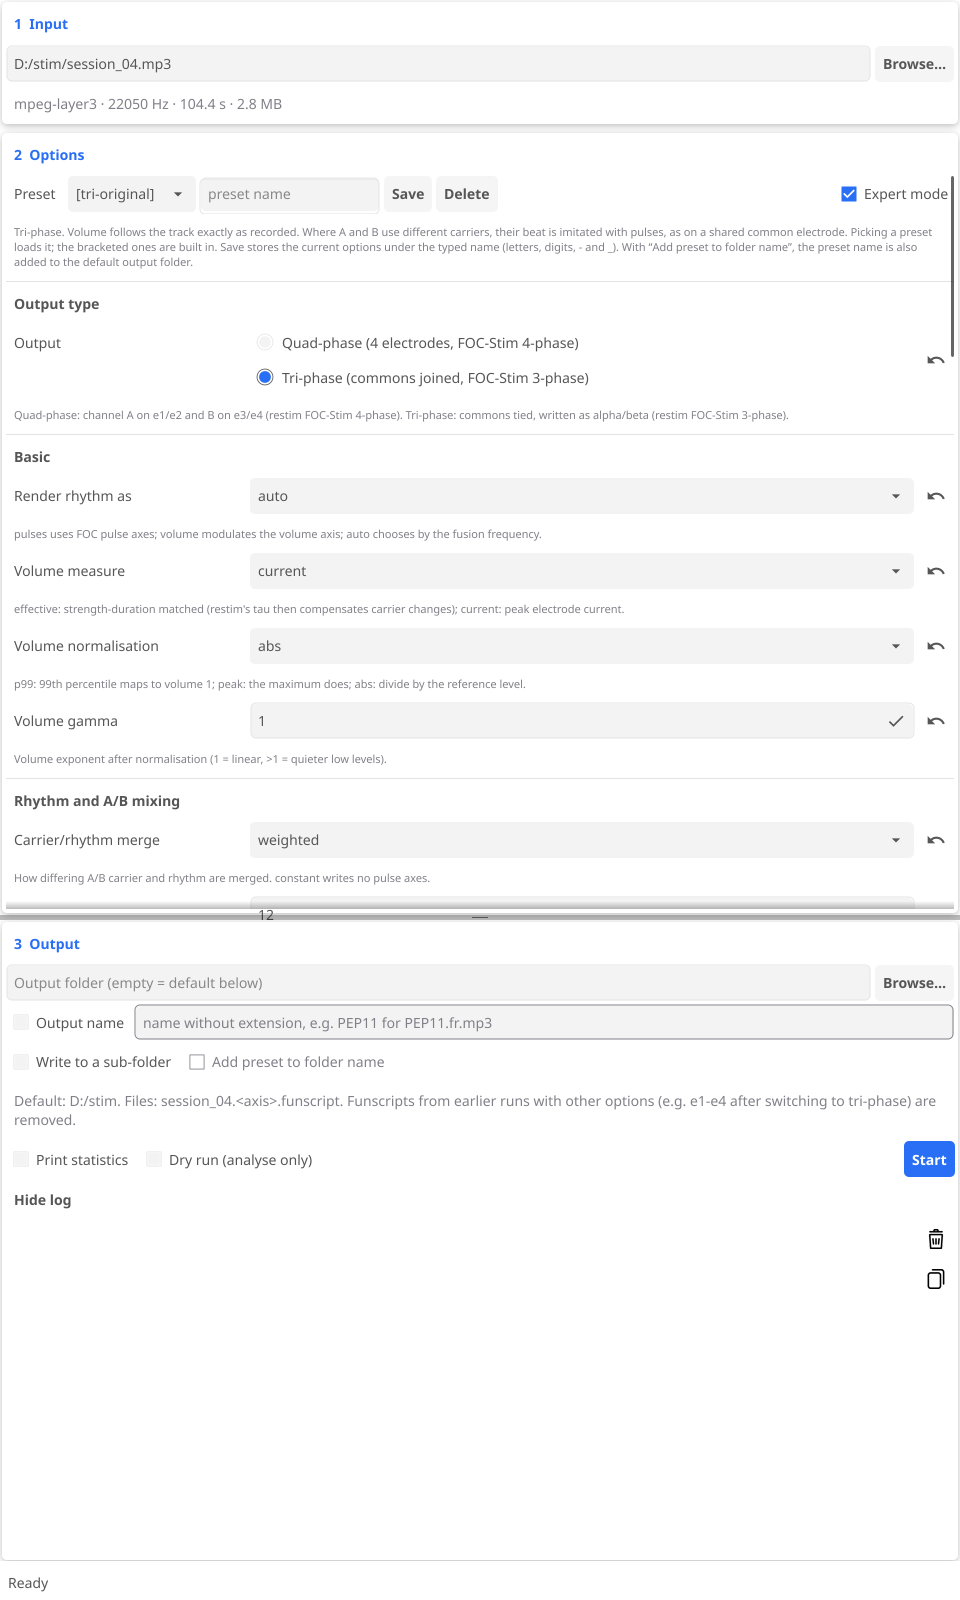
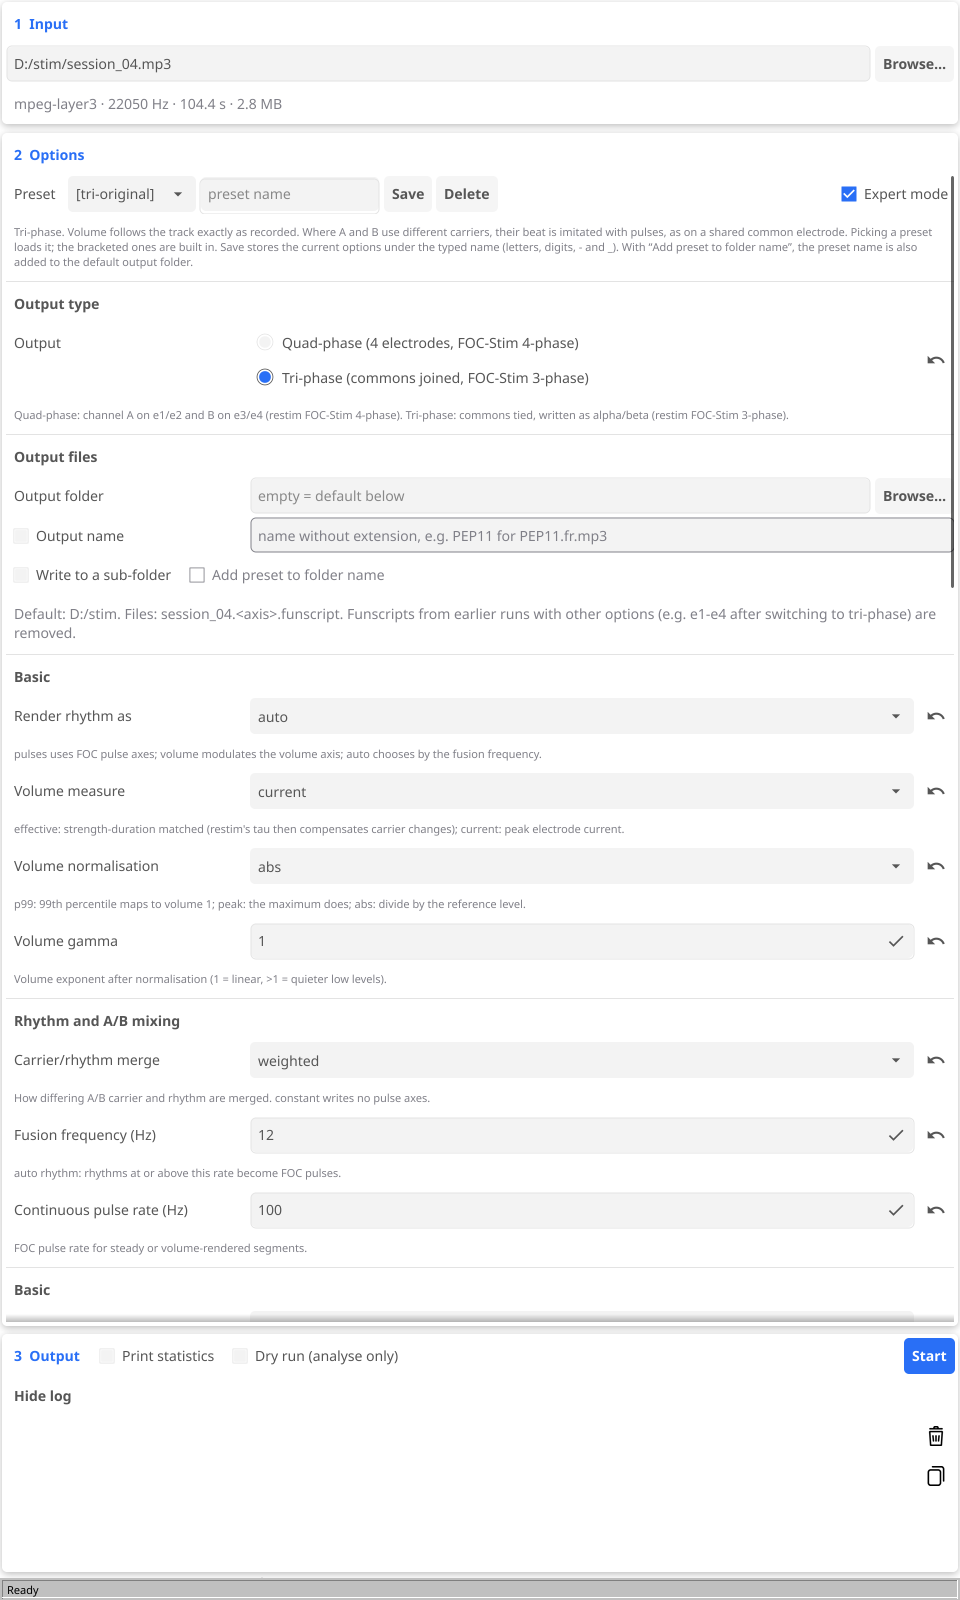
feat(gui): fixed input/output sections, output files in the options
Input stays on top and the output section (stats, dry run, Start and the
collapsible log) at the bottom, growing with the log; the options fill
the middle. The output folder and name settings move into the options
as an "Output files" block after "Output type". The status bar is a
compact Windows 98-style strip with a sunken, ellipsized field, so it no
longer overlaps the log.

diff --git a/internal/gui/layout.go b/internal/gui/layout.go
@@ -2,10 +2,12 @@ package gui
 
 import (
 	"fmt"
+	"image/color"
 	"slices"
 	"strconv"
 
 	"fyne.io/fyne/v2"
+	"fyne.io/fyne/v2/canvas"
 	"fyne.io/fyne/v2/container"
 	"fyne.io/fyne/v2/layout"
 	"fyne.io/fyne/v2/theme"
@@ -113,29 +115,126 @@ func (u *ui) entry(v *value[string], placeholder string) *widget.Entry {
 
 func (u *ui) build() fyne.CanvasObject {
 	u.refreshers = nil
-	u.optScroll, u.split = nil, nil
+	u.optScroll = nil
 	var root fyne.CanvasObject
 	if u.about {
 		root = container.NewPadded(u.aboutPage())
 	} else {
-		// options and output share the space; the divider is draggable
-		split := container.NewVSplit(u.optionsSection(), container.NewVScroll(u.outputSection()))
-		split.Offset = u.splitOffset
-		u.split = split
-		root = container.NewBorder(u.inputSection(), u.statusBar(), nil, nil, split)
+		// input and output keep their size (output grows with the log);
+		// the options fill the rest
+		root = container.NewBorder(u.inputSection(), container.NewVBox(u.outputSection(), u.statusBar()), nil, nil, u.optionsSection())
 	}
 	u.relayout()
 	return root
 }
 
-// statusBar is the bottom line of the window.
+// statusBar is the bottom line of the window, drawn like a classic
+// Windows status bar: a grey strip holding a sunken field. Long messages
+// are cut with an ellipsis.
 func (u *ui) statusBar() fyne.CanvasObject {
-	return u.dynText(func() string {
-		if s := u.status.Get(); s != "" {
-			return s
+	t := canvas.NewText("", colStatusText)
+	t.TextSize = theme.CaptionTextSize()
+	field := newSunken(t)
+	u.onRefresh(func() {
+		s := u.status.Get()
+		if s == "" {
+			s = "Ready"
 		}
-		return "Ready"
-	}, widget.MediumImportance)
+		if field.full != s {
+			field.full = s
+			field.Refresh()
+		}
+	})
+	return container.NewStack(canvas.NewRectangle(colStatusFace), container.New(statusPad{}, field))
+}
+
+var (
+	colStatusFace   = color.NRGBA{0xc0, 0xc0, 0xc0, 0xff}
+	colStatusShadow = color.NRGBA{0x80, 0x80, 0x80, 0xff}
+	colStatusLight  = color.NRGBA{0xff, 0xff, 0xff, 0xff}
+	colStatusText   = color.NRGBA{0x00, 0x00, 0x00, 0xff}
+)
+
+// statusPad insets the status field by 2 px.
+type statusPad struct{}
+
+func (statusPad) MinSize(o []fyne.CanvasObject) fyne.Size {
+	return o[0].MinSize().Add(fyne.NewSize(4, 4))
+}
+func (statusPad) Layout(o []fyne.CanvasObject, s fyne.Size) {
+	o[0].Move(fyne.NewPos(2, 2))
+	o[0].Resize(s.Subtract(fyne.NewSize(4, 4)))
+}
+
+// sunken is a one-line text field with a 1 px inset bevel (dark top/left,
+// white bottom/right).
+type sunken struct {
+	widget.BaseWidget
+	text *canvas.Text
+	full string
+}
+
+func newSunken(t *canvas.Text) *sunken {
+	s := &sunken{text: t}
+	s.ExtendBaseWidget(s)
+	return s
+}
+
+func (s *sunken) CreateRenderer() fyne.WidgetRenderer {
+	r := &sunkenRenderer{s: s,
+		top: canvas.NewRectangle(colStatusShadow), left: canvas.NewRectangle(colStatusShadow),
+		bottom: canvas.NewRectangle(colStatusLight), right: canvas.NewRectangle(colStatusLight)}
+	return r
+}
+
+type sunkenRenderer struct {
+	s                        *sunken
+	top, left, bottom, right *canvas.Rectangle
+}
+
+func (r *sunkenRenderer) MinSize() fyne.Size {
+	h := fyne.MeasureText("Ag", r.s.text.TextSize, r.s.text.TextStyle).Height
+	return fyne.NewSize(20, h+4)
+}
+
+func (r *sunkenRenderer) Layout(sz fyne.Size) {
+	r.top.Move(fyne.NewPos(0, 0))
+	r.top.Resize(fyne.NewSize(sz.Width, 1))
+	r.left.Move(fyne.NewPos(0, 0))
+	r.left.Resize(fyne.NewSize(1, sz.Height))
+	r.bottom.Move(fyne.NewPos(0, sz.Height-1))
+	r.bottom.Resize(fyne.NewSize(sz.Width, 1))
+	r.right.Move(fyne.NewPos(sz.Width-1, 0))
+	r.right.Resize(fyne.NewSize(1, sz.Height))
+	t := r.s.text
+	t.Text = ellipsize(r.s.full, sz.Width-10, t.TextSize, t.TextStyle)
+	t.Move(fyne.NewPos(5, 2))
+	t.Resize(fyne.NewSize(sz.Width-10, sz.Height-4))
+}
+
+func (r *sunkenRenderer) Refresh() {
+	r.Layout(r.s.Size())
+	canvas.Refresh(r.s)
+}
+
+func (r *sunkenRenderer) Objects() []fyne.CanvasObject {
+	return []fyne.CanvasObject{r.s.text, r.top, r.left, r.bottom, r.right}
+}
+
+func (r *sunkenRenderer) Destroy() {}
+
+// ellipsize shortens s with "…" until it fits in w.
+func ellipsize(s string, w, size float32, style fyne.TextStyle) string {
+	if fyne.MeasureText(s, size, style).Width <= w {
+		return s
+	}
+	rs := []rune(s)
+	for n := len(rs) - 1; n > 0; n-- {
+		if c := string(rs[:n]) + "…"; fyne.MeasureText(c, size, style).Width <= w {
+			return c
+		}
+	}
+	return ""
 }
 
 // ---- input ----
@@ -189,6 +288,9 @@ func (u *ui) optionsSection() fyne.CanvasObject {
 			continue
 		}
 		if o.Group != group {
+			if group == config.GroupOutput {
+				items = append(items, u.outputFiles()...)
+			}
 			group = o.Group
 			g := widget.NewLabel(group)
 			g.TextStyle.Bold = true
@@ -333,7 +435,9 @@ func (u *ui) validate() {
 
 // ---- output ----
 
-func (u *ui) outputSection() fyne.CanvasObject {
+// outputFiles is the options block for where the funscripts go and how
+// they are named.
+func (u *ui) outputFiles() []fyne.CanvasObject {
 	name := u.entry(u.outName, "name without extension, e.g. PEP11 for PEP11.fr.mp3")
 	name.Validator = func(s string) error { return pipeline.ValidateOutName(s) }
 	u.onRefresh(func() {
@@ -343,6 +447,22 @@ func (u *ui) outputSection() fyne.CanvasObject {
 			name.Disable()
 		}
 	})
+	g := widget.NewLabel("Output files")
+	g.TextStyle.Bold = true
+	return []fyne.CanvasObject{
+		widget.NewSeparator(), g,
+		container.NewBorder(nil, nil, withWidth(labelW, widget.NewLabel("Output folder")), widget.NewButton("Browse…", u.browseOutDir),
+			u.entry(u.outDir, "empty = default below")),
+		container.NewBorder(nil, nil, withWidth(labelW, u.check("Output name", u.outNameOn, nil)), nil, name),
+		container.NewHBox(
+			u.check("Write to a sub-folder", u.subfolder, nil),
+			u.check("Add preset to folder name", u.presetSuffix, func() bool { return !u.subfolder.Get() }),
+		),
+		u.dynText(u.defaultOutText, widget.LowImportance),
+	}
+}
+
+func (u *ui) outputSection() fyne.CanvasObject {
 	start := widget.NewButton("Start", u.startOrCancel)
 	start.Importance = widget.HighImportance
 	u.onRefresh(func() {
@@ -358,16 +478,8 @@ func (u *ui) outputSection() fyne.CanvasObject {
 		}
 	})
 	return panel(
-		heading("3  Output"),
-		container.NewBorder(nil, nil, nil, widget.NewButton("Browse…", u.browseOutDir),
-			u.entry(u.outDir, "Output folder (empty = default below)")),
-		container.NewBorder(nil, nil, u.check("Output name", u.outNameOn, nil), nil, name),
 		container.NewHBox(
-			u.check("Write to a sub-folder", u.subfolder, nil),
-			u.check("Add preset to folder name", u.presetSuffix, func() bool { return !u.subfolder.Get() }),
-		),
-		u.dynText(u.defaultOutText, widget.LowImportance),
-		container.NewHBox(
+			heading("3  Output"),
 			u.check("Print statistics", u.stats, nil),
 			u.check("Dry run (analyse only)", u.dryRun, nil),
 			layout.NewSpacer(),

diff --git a/internal/gui/readme_shots_test.go b/internal/gui/readme_shots_test.go
@@ -9,9 +9,6 @@ import (
 
 // TestReadmeShots renders the screenshots used in the top-level README.
 // It runs only with STIMCONV_README_SHOTS=<dir>, e.g. docs/images.
-// shotH is tall enough to show the output section and log unscrolled.
-const shotH = 1150
-
 func TestReadmeShots(t *testing.T) {
 	dir := os.Getenv("STIMCONV_README_SHOTS")
 	if dir == "" {
@@ -28,7 +25,7 @@ func TestReadmeShots(t *testing.T) {
 	u.logf("%s", "warning: frequency: 67.9% of values outside the funscript range 500..1000 (data spans 660.5..2000); widen with --range frequency=500:2000 and set the same range in restim's funscript kit")
 	u.logf("wrote 10 funscripts and README.md to D:/stim/session_04.default")
 	u.logf("restim: use device FOC-Stim 4-phase; volume is strength-duration matched, so keep restim's tau at 355 us and its maximum carrier at 2000 Hz; funscript kit ranges: restim defaults")
-	shot(t, u, dir, "main", winW, shotH)
+	shot(t, u, dir, "main", winW, winH)
 
 	// Expert mode, tall enough to show the option groups.
 	u = newShotUI()
@@ -47,7 +44,7 @@ func TestReadmeShots(t *testing.T) {
 		{Index: 1, Codec: "aac", Layout: "stereo", Channels: 2, SampleRate: 44100, Title: "Stim A/B", Default: true},
 		{Index: 2, Codec: "ac3", Layout: "5.1(side)", Channels: 6, SampleRate: 48000},
 	}
-	shot(t, u, dir, "tracks", winW, shotH)
+	shot(t, u, dir, "tracks", winW, winH)
 
 	// Batch run with the content check and log levels.
 	u = newShotUI()
@@ -65,5 +62,5 @@ func TestReadmeShots(t *testing.T) {
 	u.logf("wrote 10 funscripts and README.md to D:/stim/b.default")
 	u.logf("— 3/3 · c.wav")
 	u.logf("%s", "warning: this may not be a stim drive signal: 4% of sampled frames are carrier-like")
-	shot(t, u, dir, "batch", winW, shotH)
+	shot(t, u, dir, "batch", winW, winH)
 }

diff --git a/internal/gui/gui.go b/internal/gui/gui.go
@@ -102,7 +102,7 @@ func Run(icons fs.FS, iconPNG []byte) error {
 }
 
 func newUI(w fyne.Window) *ui {
-	u := &ui{win: w, cfg: config.Default(), preset: presets.Default, askOverwrite: askOverwrite, splitOffset: 0.55}
+	u := &ui{win: w, cfg: config.Default(), preset: presets.Default, askOverwrite: askOverwrite}
 	u.input, u.outDir, u.presetName, u.outName = newValue(u, ""), newValue(u, ""), newValue(u, ""), newValue(u, "")
 	u.outNameOn, u.subfolder, u.presetSuffix = newValue(u, false), newValue(u, false), newValue(u, false)
 	u.contentWarn, u.guidance, u.optErr = newValue(u, ""), newValue(u, ""), newValue(u, "")
@@ -150,9 +150,6 @@ func (u *ui) rebuild() {
 	var off fyne.Position
 	if u.optScroll != nil {
 		off = u.optScroll.Offset
-	}
-	if u.split != nil {
-		u.splitOffset = u.split.Offset
 	}
 	u.root = u.build()
 	if u.optScroll != nil {

diff --git a/internal/gui/gui_test.go b/internal/gui/gui_test.go
@@ -133,11 +133,14 @@ func TestLiveUpdates(t *testing.T) {
 	w := shot(t, u, "", "", winW, winH)
 	u.info.Set("⚠ cannot decode: no frames")
 	u.status.Set("Done — 12 files in /some/long/output/directory")
-	for _, s := range []string{"⚠ cannot decode: no frames", "Done — 12 files in /some/long/output/directory"} {
-		if findText(w.Content(), s) == nil {
-			t.Errorf("%q not shown", s)
-		}
+	if findText(w.Content(), "⚠ cannot decode: no frames") == nil {
+		t.Error("info not shown")
 	}
+	walk(w.Content(), func(c fyne.CanvasObject) {
+		if f, ok := c.(*sunken); ok && f.text.Text != "Done — 12 files in /some/long/output/directory" {
+			t.Errorf("status bar shows %q", f.text.Text)
+		}
+	})
 	u.logf("hello console")
 	found := false
 	walk(w.Content(), func(c fyne.CanvasObject) {

diff --git a/CLAUDE.md b/CLAUDE.md
@@ -26,7 +26,7 @@ bin/stimconv.exe cli --stats --dump-features f.csv reference/audio/sample_stayh.
 
 The pipeline is in `internal/pipeline` (`Convert`), shared by the CLI (`main.go`, `cli` subcommand) and the GUI: decode → analysis.Measure (streaming) → analysis.Derive (offline) → mapping.Map → funscript write.
 
-- **gui**: Fyne (`fyne.io/fyne/v2`) single window: input on top, then options and output in a draggable `VSplit`, status line at the bottom. Option controls are generated from `config.Options` (labels, help, groups, Advanced/expert flag, `OnlyIf` visibility). Widgets are touched only on the UI thread: goroutines (pipeline runs, zenity file dialogs) hand work back with `ui.post`, which queues it and runs `drain` via `fyne.Do` (tests leave `ui.live` false and call `drain` themselves). UI state lives in `value[T]` (`value.go`); `Set` calls `ui.relayout`, which runs the `refreshers` that `build` registered to copy state into the widgets of the current tree (guarded against re-entry from widget callbacks). Structural changes re-create the tree via `rebuild`, which keeps the options scroll offset and split position. Fyne needs cgo: on Linux install `gcc pkg-config libgl1-mesa-dev xorg-dev libxkbcommon-dev libwayland-dev`. `go test ./internal/gui` uses `fyne.io/fyne/v2/test` (headless software painter; `STIMCONV_SHOT=<dir>` keeps PNGs). The headless painter may draw a scrolled-out entry's text outside its clip; that is a test-only artefact. `theme.go` forces Fyne's light variant (the OS dark mode is ignored unless `FYNE_THEME` is set) and darkens `ColorNameDisabled`, which LowImportance help text uses.
+- **gui**: Fyne (`fyne.io/fyne/v2`) single window: fixed input section on top; fixed output section (stats/dry-run, Start, collapsible log; grows with the log) and a Windows 98-style status bar (`sunken`, ellipsized one line) at the bottom; the scrolling options fill the middle. The output folder/name settings are an "Output files" block inside the options, after "Output type". Option controls are generated from `config.Options` (labels, help, groups, Advanced/expert flag, `OnlyIf` visibility). Widgets are touched only on the UI thread: goroutines (pipeline runs, zenity file dialogs) hand work back with `ui.post`, which queues it and runs `drain` via `fyne.Do` (tests leave `ui.live` false and call `drain` themselves). UI state lives in `value[T]` (`value.go`); `Set` calls `ui.relayout`, which runs the `refreshers` that `build` registered to copy state into the widgets of the current tree (guarded against re-entry from widget callbacks). Structural changes re-create the tree via `rebuild`, which keeps the options scroll offset. Fyne needs cgo: on Linux install `gcc pkg-config libgl1-mesa-dev xorg-dev libxkbcommon-dev libwayland-dev`. `go test ./internal/gui` uses `fyne.io/fyne/v2/test` (headless software painter; `STIMCONV_SHOT=<dir>` keeps PNGs). The headless painter may draw a scrolled-out entry's text outside its clip; that is a test-only artefact. `theme.go` forces Fyne's light variant (the OS dark mode is ignored unless `FYNE_THEME` is set) and darkens `ColorNameDisabled`, which LowImportance help text uses.
 - **console channels**: GUI log entries are info, warning or error (`loglevel.go`); pipeline lines are classified by their `warning:`/`error:` prefix. The console is a `RichText` with one coloured segment per line (last `logRows`). `consoleSymbols` returns the tier `consoleTier` (emoji → `● ⚠ ✗` → `[info]` tags). `TestSymbolTiers` checks it is the first tier Fyne's default theme draws, by rendering in the test app and comparing with unassigned U+0378, which draws nothing. Fyne bundles an emoji font, so the console uses emoji. Copy log uses the text tags.
 - **settings report** (`pipeline/readme.go`): every non-dry run writes `README.md` (in a sub-folder) or `<output name>.md` (next to the input or in a chosen folder). It is written for whoever receives the funscripts, so it holds no local paths. It opens with the source file name, duration and size, the stimconv version and the restim/FOC-Stim versions the defaults were checked against, then setup steps and the restim settings table (`pipeline/restim.go`: expected value, restim's default, **change** where they differ). Last comes "How these were made": the source/track, preset, warnings, and every `config.Options` setting with its value and whether it is the default ("(not used)" when `OnlyIf` is false). The report ends with a settings block (`config/pem.go`): PEM type `STIMCONV SETTINGS` with `Version`/`Preset` headers, the base64 of `config.Embedded` (stimconv version, preset name, the full `Config` with defaults). `config.Load` reads a report that contains one, so `--config report.md` works; the GUI imports it via File → Import settings from report… (current options; Save makes it a preset). Fields missing from an older block get today's defaults. restim's defaults are hardcoded in `restim.go` with `RestimVersion`/`FOCStimVersion`; `TestReferenceVersions` fails when a submodule moves, so re-check the defaults on every bump.
 - **validation** (`pipeline/validate.go`): after writing, the funscripts are read back from disk (in memory on a dry run) and checked against the input analysis: input activity (relative to its 99.5th percentile, so a spike can't set it) against output volume > 0, a peak more than 20 dB above that percentile, flat volume, file structure, and restim's simulated 60 Hz message rate (warn above 400/s). Problems become `validation failed:` warnings. It exists because a corrupt AAC frame once made a whole file convert as silent unnoticed.
